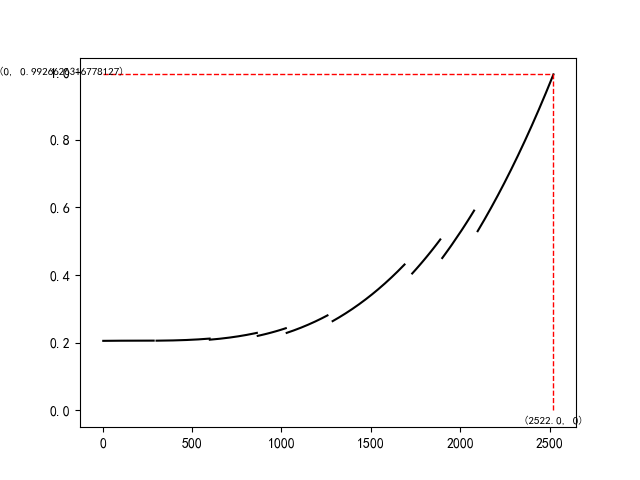
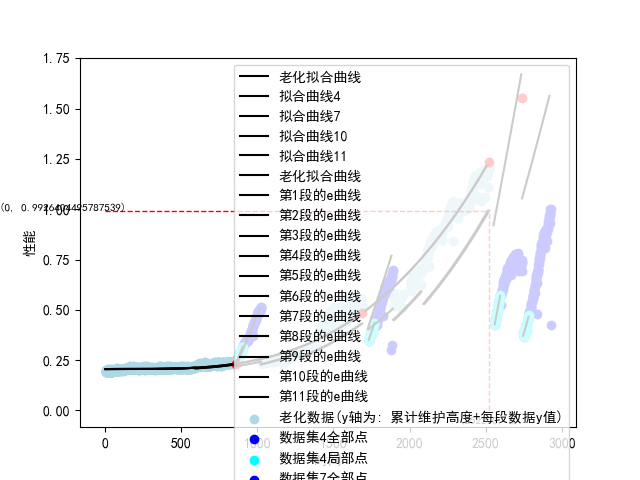
pso

diff --git a/main.py b/main.py
@@ -1,6 +1,7 @@
 import pandas as pd
 import numpy as np
 import matplotlib.pyplot as plt
+import random
 import function as F
 from scipy.optimize import curve_fit
 from pyswarm import pso
@@ -25,6 +26,8 @@ abnormal_segment = para.abnormal_segment
 SLD = para.SLD
 SRW = para.SRW
 MMI = para.MMI
+MTE = para.MTE
+min_dis = para.min_dis
 
 # ======================================================================================================================
 # ======================================================================================================================
@@ -59,7 +62,7 @@ plt.plot(age_x_fit, age_y_fit, color='black', label='老化拟合曲线')
 # 添加标签和图例
 plt.xlabel('X'); plt.ylabel('Y'); plt.legend()
 plt.savefig('figure/123569段数据清洗后拟合性能趋势图')
-plt.show()
+#plt.show()
 
 # ======================================================================================================================
 # ======================================================================================================================
@@ -91,7 +94,7 @@ for i, segment in enumerate(abnormal_segment):
     threshold_all.append(coefficients[i][0] - F.derivative_f(data_segments[segment].iloc[0,0], *age_params))
 plt.xlabel('时间'); plt.ylabel('性能'); plt.legend()
 plt.savefig('figure/在清洗数据后得到的第4_7_10_11段起始点的斜率')
-plt.show()
+#plt.show()
 print('4条线各自的斜率之差:',threshold_all)
 
 # ======================================================================================================================
@@ -113,7 +116,7 @@ for (px, py, slope) in zip(points_x, points_y, points_slope):
 # 添加标签和图例
 plt.xlabel('X'); plt.ylabel('Y'); plt.legend()
 plt.savefig('figure/123569段数据清洗后拟合性能趋势图_带导数')
-plt.show()
+#plt.show()
 
 # 输出导数值
 print('===================================================')
@@ -171,6 +174,7 @@ if len(slope_ex_1) >= len(slope_ex)/2:
     print(f'{any_time}时的机器需要维修')
 else:
     print(f'{any_time}时的机器正常, 无需维修')
+
 # ======================================================================================================================
 # ======================================================================================================================
 
@@ -205,7 +209,7 @@ for i, segment in enumerate(interval):
     plt.plot(e[i].index[:], e[i].values, label=f'第{segment + 1}段的e曲线', color='black')
 plt.xlabel('时间'); plt.ylabel('性能'); plt.legend()
 plt.savefig('figure/模型e(x).png')
-plt.show()
+#plt.show()
 
 # ======================================================================================================================
 # ======================================================================================================================
@@ -233,7 +237,7 @@ plt.plot([0, curve_x[-1]], [curve_y[-1], curve_y[-1]], 'r--', linewidth=1)
 plt.annotate(f'({curve_x[-1]}, 0)', (curve_x[-1], 0), textcoords="offset points", xytext=(0, -10), ha='center', fontsize=8)
 plt.annotate(f'(0, {curve_y[-1]})', (0, curve_y[-1]), textcoords="offset points", xytext=(-30, 0), ha='center', fontsize=8)
 plt.savefig('figure/无异常')
-plt.show()
+#plt.show()
 
 # 下面计算无维护
 Wuweihu = []
@@ -258,7 +262,7 @@ plt.plot([0, curve_x[-1]], [curve_y[-1], curve_y[-1]], 'r--', linewidth=1)
 plt.annotate(f'({curve_x[-1]}, 0)', (curve_x[-1], 0), textcoords="offset points", xytext=(0, -10), ha='center', fontsize=8)
 plt.annotate(f'(0, {curve_y[-1]})', (0, curve_y[-1]), textcoords="offset points", xytext=(-30, 0), ha='center', fontsize=8)
 plt.savefig('figure/无维护')
-plt.show()
+#plt.show()
 
 # 下面计算都无
 Douwu = []
@@ -283,8 +287,27 @@ plt.plot([0, curve_x[-1]], [curve_y[-1], curve_y[-1]], 'r--', linewidth=1)
 plt.annotate(f'({curve_x[-1]}, 0)', (curve_x[-1], 0), textcoords="offset points", xytext=(0, -10), ha='center', fontsize=8)
 plt.annotate(f'(0, {curve_y[-1]})', (0, curve_y[-1]), textcoords="offset points", xytext=(-30, 0), ha='center', fontsize=8)
 plt.savefig('figure/都无')
+#plt.show()
+
+# 利用pso算法求解最优维护次数
+# t的下界与上界（根据实际情况调整）
+print('请输入时间x: ')
+x = int(input())
+# 19 = 2926/158, 4是异常次数
+T = F.generate_random_points(random.randint(10, 15))
+if T[0] != 0:
+    T.insert(0,0)
+if T[-1] != 5000:
+    T.append(5000)
+lb = [0 for i in range(len(T))]; ub = [5000 for i in range(len(T))]
+best_T, min_error = pso(lambda T: F.pso_goal2(T, x, k_mean, backoff_time, *age_params), lb, ub)
+print('最佳维护时间:')
+print(best_T)
 plt.show()
 
-# ======================================================================================================================
-# ======================================================================================================================
-
+for i in range(0, 5000):
+    max_life = 0
+    if F.pso_goal2(best_T, i, k_mean, backoff_time, *age_params) >= 1:
+        max_life = i
+        break
+print(max_life)

diff --git a/function.py b/function.py
@@ -1,6 +1,7 @@
 import pandas as pd
 import numpy as np
 import function as F
+import random
 from parameters import Env_parameters
 from scipy.optimize import curve_fit, fsolve
 from numpy.polynomial.polynomial import Polynomial
@@ -64,7 +65,13 @@ def hx(segment, backoff_time, h, x, a, b, c, d):
     hx = F.f(x, a, b, c, d) - F.f(x - backoff_time, a, b, c, d) + h[segment - 1]
     return hx
 
-
+def h2x(T, backoff_time, x, a, b, c, d):
+    x_i0, x_i1 = F.find_interval(T, x)
+    h2x = 0
+    for i, segment in enumerate(T):
+        if x > segment:
+            hx2 = h2x - (F.f(x, a, b, c, d) - F.f(x - backoff_time, a, b, c, d))
+    return h2x
 def ex(data_segments, h, segment, x, k_mean, a, b, c, d):
     if segment == 3 or segment == 6 or segment == 9 or segment == 10:
         e = F.f(x, a, b, c, d) + F.g1x(x, k_mean[segment], data_segments[segment].iloc[0, 0]) - h[segment]
@@ -94,3 +101,36 @@ def Wuweihux(g, segment, num, x, a, b, c, d):
 def Douwux(x, a, b, c, d):
     douwu = F.f(x, a, b, c, d)
     return douwu
+
+def generate_random_points(n):
+    points = [random.uniform(0, 5000) for _ in range(n)]
+    return sorted(points)
+
+def find_interval(points, value):
+    for i in range(len(points) - 1):
+        if points[i] <= value < points[i + 1]:
+            return points[i], points[i+1]
+    return 5000, 5000
+
+def find_interval2(points, value):
+    for i in range(len(points) - 1):
+        if points[i][0] <= value < points[i][1]:
+            return points[i][0]
+    return points[-1][1]
+
+def g_val2(T, k, backoff_time, t_i0, x, a, b, c, d):
+    return F.g1x(x, k, t_i0) + F.f(x, a, b, c, d) + h2x(T, backoff_time, x, a, b, c, d)
+
+def pso_goal2(T, x, k_mean, backoff_time, a ,b, c, d):
+    t_i0, t_i1 = F.find_interval(T, x)
+    x_i0 = F.find_interval2(interval_segment, x)
+    k = 0
+    if x_i0 == 860 or x_i0 == 1724 or x_i0 == 2539 or x_i0 == 2738:
+        if x_i0 == 860: k = k_mean[3]
+        elif x_i0 == 1724: k = k_mean[6]
+        elif x_i0 == 2539: k = k_mean[10]
+        else: k = k_mean[10]
+    t_i0 = max(t_i0, x_i0)
+    g_val2 = F.g_val2(T, k, backoff_time, t_i0, x, a, b, c, d)
+
+    return g_val2

diff --git a/parameters.py b/parameters.py
@@ -24,8 +24,9 @@ class Env_parameters():
                             help='Size of rolling window')
         parser.add_argument('--MMI', type=int, default=200,
                             help='Minimum maintenance interval(最小维护时间间隔)')
-        parser.add_argument('--MTR', type=int, default=30,
-                            help='Maintenance Time Range(维护时间范围)')
-
+        parser.add_argument('--MTE', type=int, default=30,
+                            help='Maintenance time error(维护时间误差)')
+        parser.add_argument('--min_dis', type=int, default=158,
+                            help='间隔之间最小距离')
 
         return parser.parse_args()
